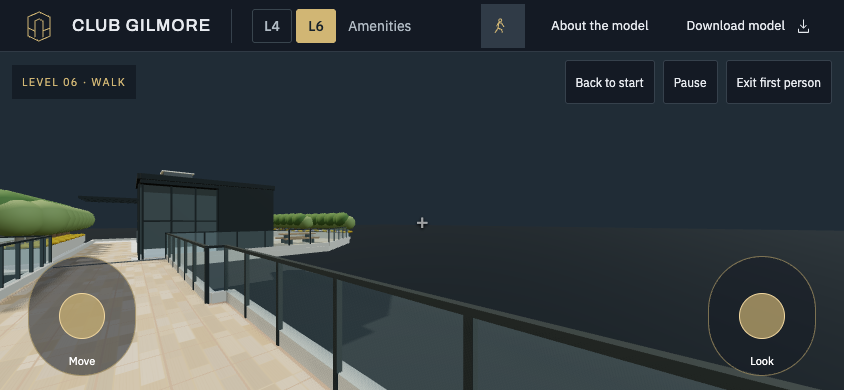
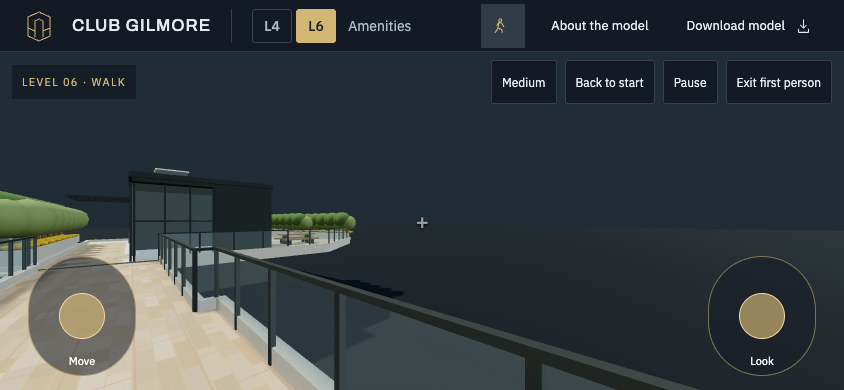
Enhance first-person navigation with speed adjustment feature and responsive UI updates

diff --git a/src/main.js b/src/main.js
@@ -123,7 +123,7 @@ function enterFirstPerson(){
  for(const gate of model.walkModeGates||[]){gate.userData.closedPosition??=gate.position.clone();gate.position.z=gate.userData.closedPosition.z+.95;}
  if(!firstPerson){
   const navigationWorld=new NavigationWorld(model,model.navigation);
-  firstPerson=new FirstPersonController({scene,domElement:renderer.domElement,navigationWorld,config:model.navigation,onStateChange:syncFirstPersonUI,requestRender});
+  firstPerson=new FirstPersonController({scene,domElement:renderer.domElement,navigationWorld,config:{...model.navigation,walkSpeed:speeds[speedIndex][1]},onStateChange:syncFirstPersonUI,requestRender});
   firstPerson.attachAvatar(new FirstPersonAvatar());
  }
  firstPerson.resize(vw,vh);firstPerson.enter();lastFrameTime=0;
@@ -142,6 +142,7 @@ $('fp-exit-paused').addEventListener('click',exitFirstPerson);
 $('fp-resume').addEventListener('click',()=>firstPerson?.resume());
 $('fp-pause').addEventListener('click',()=>firstPerson?.pause());
 $('fp-reset').addEventListener('click',()=>firstPerson?.reset());
+$('fp-speed').addEventListener('click',()=>{speedIndex=(speedIndex+1)%speeds.length;const[n,v]=speeds[speedIndex];if(firstPerson)firstPerson.config.walkSpeed=v;$('fp-speed').textContent=n;$('fp-speed').setAttribute('aria-label',`Walking speed: ${n}. Tap to change`)});
 $('about-button').addEventListener('click',()=>{if(walking())firstPerson.pause();});
 document.addEventListener('keydown',event=>{
  if(event.key!=='Tab'||!walking()||$('fp-pause-overlay').hidden||$('about').open)return;

diff --git a/src/style.css b/src/style.css
@@ -12,6 +12,7 @@ body.first-person .room-browser,body.first-person .detail,body.first-person .vie
 .fp-toolbar>span{font-size:11px;letter-spacing:.12em;color:var(--gold);margin-right:auto;padding:10px;background:#141a24dd}
 .fp-toolbar button,.fp-card button{background:var(--navy);border:1px solid var(--line);border-radius:3px;min-height:44px;padding:10px 14px;font-size:12px}
 .fp-toolbar button:hover,.fp-card button:hover{background:#303b47}
+@media(max-width:480px){.fp-toolbar>span{display:none}.fp-toolbar{justify-content:flex-end}}
 .fp-help{position:absolute;bottom:12px;left:50%;transform:translateX(-50%);background:#141a24dd;padding:8px 14px;font-size:12px;white-space:nowrap}
 .fp-overlay{position:absolute;inset:0;background:#071018b8;display:grid;place-items:center;pointer-events:auto}
 .fp-card{max-width:390px;margin:20px;padding:26px;background:var(--navy);border:1px solid var(--line);border-radius:5px;text-align:center}
